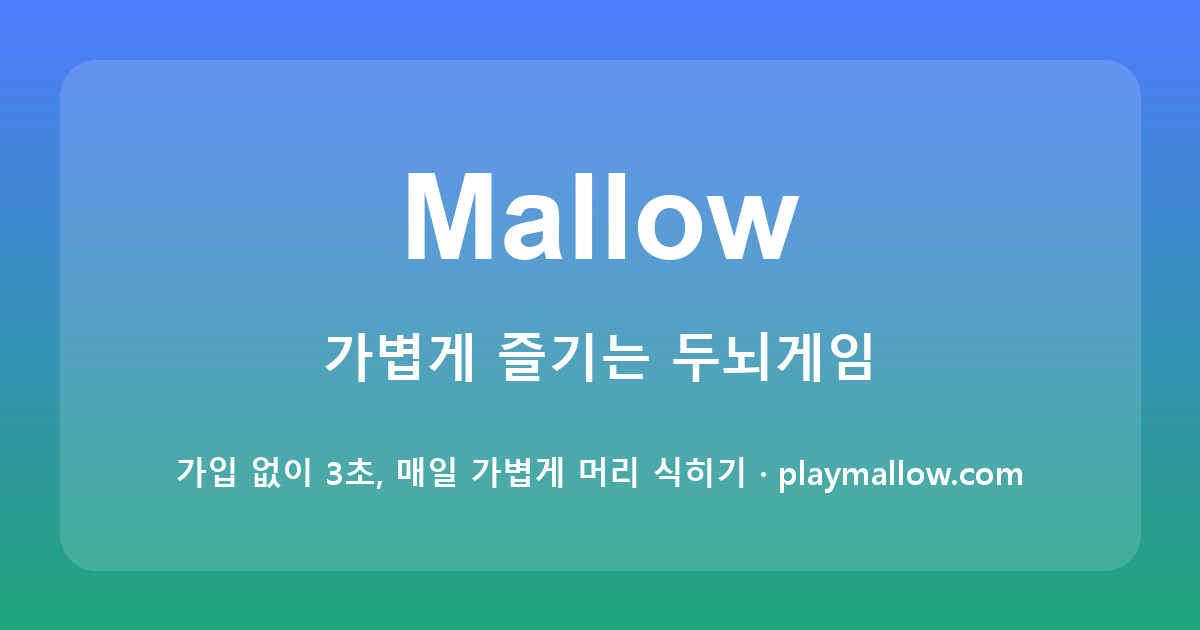
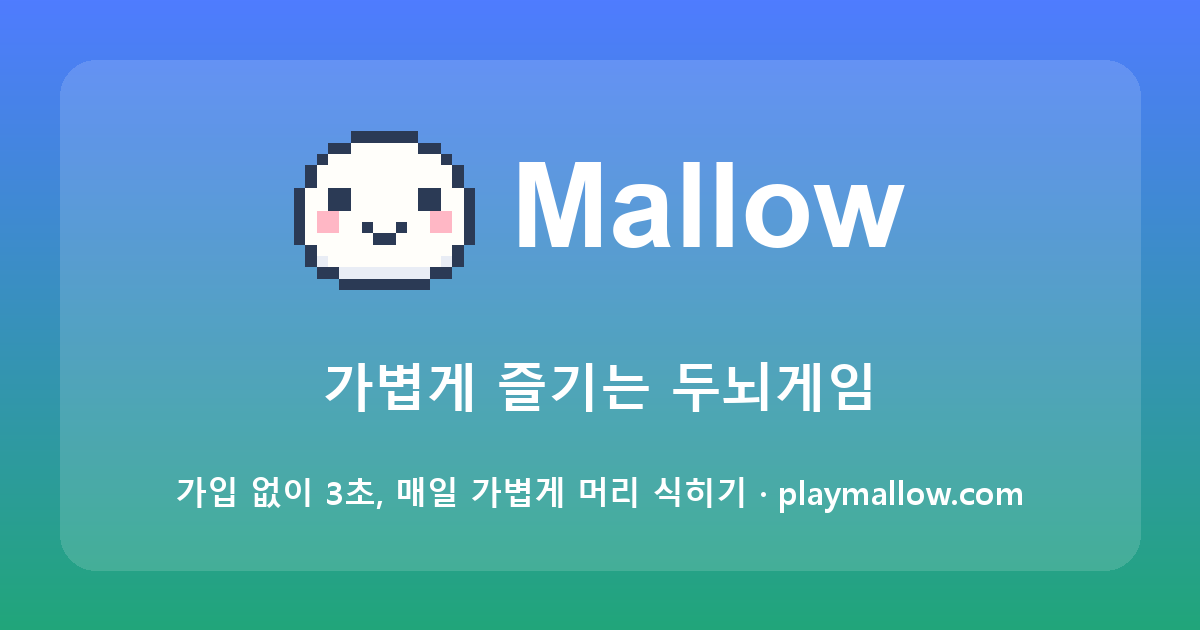
fix: OG 공유 카드에 마스코트 추가 + 캐시 무효화(?v=2)
- og.png 재생성: 도트 말로우 + Mallow 타이틀 나란히 배치
- og:image/twitter:image URL에 ?v=2 → SNS 스크레이퍼가 새 이미지 재수집

Changed region(s): [[0.2467, 0.181, 0.7708, 0.4825], [0.2775, 0.5127, 0.74, 0.6635], [0.1542, 0.7238, 0.8633, 0.8143]]

diff --git a/brain_app.html b/brain_app.html
@@ -13,11 +13,11 @@
 <meta property="og:title" content="Mallow — 가볍게 즐기는 두뇌게임">
 <meta property="og:description" content="가입 없이 3초 만에 시작하는 무료 두뇌게임. 기억력·집중력·순발력 미니게임 15종과 오늘의 미션!">
 <meta property="og:url" content="https://playmallow.com/">
-<meta property="og:image" content="https://playmallow.com/og.png">
+<meta property="og:image" content="https://playmallow.com/og.png?v=2">
 <meta name="twitter:card" content="summary_large_image">
 <meta name="twitter:title" content="Mallow — 가볍게 즐기는 두뇌게임">
 <meta name="twitter:description" content="가입 없이 3초 만에 시작하는 무료 두뇌게임. 매일 가볍게 머리 식히세요.">
-<meta name="twitter:image" content="https://playmallow.com/og.png">
+<meta name="twitter:image" content="https://playmallow.com/og.png?v=2">
 <link rel="manifest" href="manifest.webmanifest">
 <link rel="icon" type="image/png" sizes="32x32" href="favicon-32.png">
 <link rel="apple-touch-icon" href="apple-touch-icon.png">

diff --git a/index.html b/index.html
@@ -13,11 +13,11 @@
 <meta property="og:title" content="Mallow — 가볍게 즐기는 두뇌게임">
 <meta property="og:description" content="가입 없이 3초 만에 시작하는 무료 두뇌게임. 기억력·집중력·순발력 미니게임 15종과 오늘의 미션!">
 <meta property="og:url" content="https://playmallow.com/">
-<meta property="og:image" content="https://playmallow.com/og.png">
+<meta property="og:image" content="https://playmallow.com/og.png?v=2">
 <meta name="twitter:card" content="summary_large_image">
 <meta name="twitter:title" content="Mallow — 가볍게 즐기는 두뇌게임">
 <meta name="twitter:description" content="가입 없이 3초 만에 시작하는 무료 두뇌게임. 매일 가볍게 머리 식히세요.">
-<meta name="twitter:image" content="https://playmallow.com/og.png">
+<meta name="twitter:image" content="https://playmallow.com/og.png?v=2">
 <link rel="manifest" href="manifest.webmanifest">
 <link rel="icon" type="image/png" sizes="32x32" href="favicon-32.png">
 <link rel="apple-touch-icon" href="apple-touch-icon.png">
